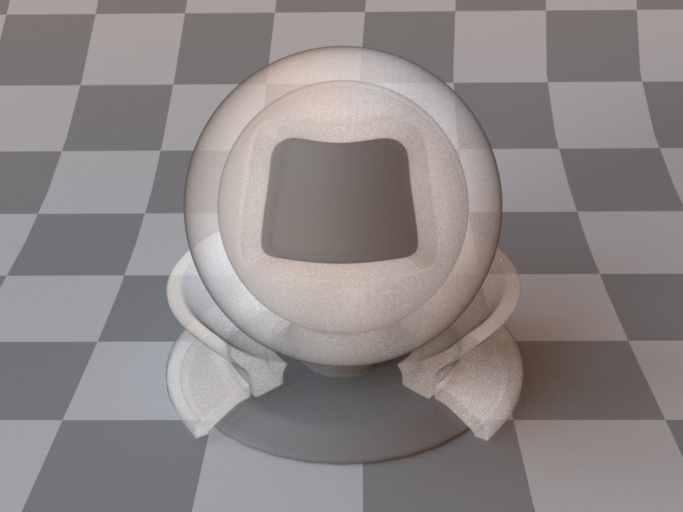
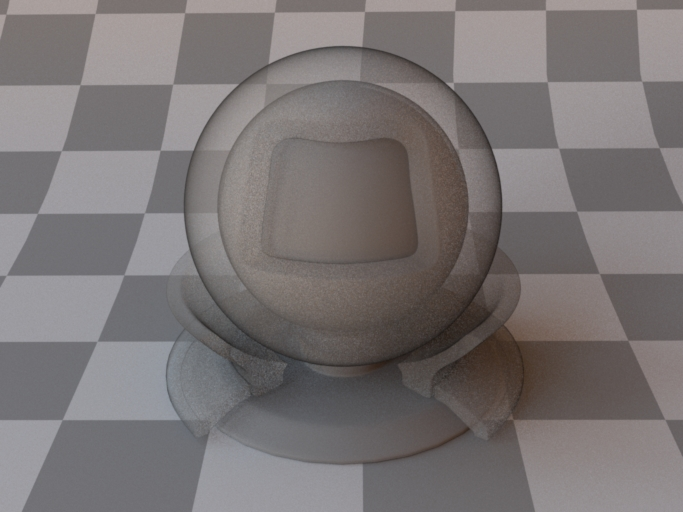
preliminary sun/sky model implementation

Changed region(s): [[0.2152, 0.0625, 0.7687, 0.875]]

diff --git a/src/luminaires/sun.h b/src/luminaires/sun.h
@@ -75,8 +75,8 @@ Point2 configureSunPosition(Float lat, Float lon, int stdMrd,
 		-solarAzimuth);
 }
 
-Point2 configureSunPosition(const Vector& sunDir, const Transform &luminaireToWorld) {
-	return fromSphere(normalize(luminaireToWorld(sunDir)));
+Point2 configureSunPosition(const Vector& sunDir, const Transform &worldToLuminaire) {
+	return fromSphere(normalize(worldToLuminaire(sunDir)));
 }
 
 Point2 configureSunPosition(const Properties &props) {
@@ -90,7 +90,7 @@ Point2 configureSunPosition(const Properties &props) {
 
 		return configureSunPosition(
 			props.getVector("sunDirection"),
-			props.getTransform("toWorld", Transform()));
+			props.getTransform("toWorld", Transform()).inverse());
 	} else {
 		Float lat = props.getFloat("latitude", 35.6894f);
 		Float lon  = props.getFloat("longitude", 139.6917f);
@@ -107,6 +107,126 @@ Point2 configureSunPosition(const Properties &props) {
 		return configureSunPosition(lat, lon, stdMrd, day, time);
 	}
 }
+
+/* All data lifted from MI */
+/* Units are either [] or cm^-1. refer when in doubt MI */
+
+// k_o Spectrum table from pg 127, MI.
+Float k_oWavelengths[64] = {
+	300, 305, 310, 315, 320, 325, 330, 335, 340, 345,
+	350, 355, 445, 450, 455, 460, 465, 470, 475, 480, 
+	485, 490, 495, 500, 505, 510, 515, 520, 525, 530, 
+	535, 540, 545, 550, 555, 560, 565, 570, 575, 580, 
+	585, 590, 595, 600, 605, 610, 620, 630, 640, 650, 
+	660, 670, 680, 690, 700, 710, 720, 730, 740, 750, 
+	760, 770, 780, 790,
+};
+
+Float k_oAmplitudes[65] = {
+	10.0, 4.8, 2.7, 1.35, .8, .380, .160, .075, .04, .019, .007, 
+	.0, .003, .003, .004, .006, .008, .009, .012, .014, .017, 
+	.021, .025, .03, .035, .04, .045, .048, .057, .063, .07, 
+	.075, .08, .085, .095, .103, .110, .12, .122, .12, .118, 
+	.115, .12, .125, .130, .12, .105, .09, .079, .067, .057, 
+	.048, .036, .028, .023, .018, .014, .011, .010, .009, 
+	.007, .004, .0, .0
+};
+
+// k_g Spectrum table from pg 130, MI.
+Float k_gWavelengths[4] = {
+	759, 760, 770, 771
+};
+
+Float k_gAmplitudes[4] = {
+	0, 3.0, 0.210, 0
+};
+
+// k_wa Spectrum table from pg 130, MI.
+Float k_waWavelengths[13] = {
+	689, 690, 700, 710, 720,
+	730, 740, 750, 760, 770,
+	780, 790, 800
+};
+
+Float k_waAmplitudes[13] = {
+	0, 0.160e-1, 0.240e-1, 0.125e-1,
+	0.100e+1, 0.870, 0.610e-1, 0.100e-2,
+	0.100e-4, 0.100e-4, 0.600e-3,
+	0.175e-1, 0.360e-1
+};
+
+Float solWavelengths[38] = {
+	380, 390, 400, 410, 420, 430, 440, 450, 
+	460, 470, 480, 490, 500, 510, 520, 530, 
+	540, 550, 560, 570, 580, 590, 600, 610, 
+	620, 630, 640, 650, 660, 670, 680, 690, 
+	700, 710, 720, 730, 740, 750
+};
+
+Float solAmplitudes[38] = {
+	165.5, 162.3, 211.2, 258.8, 258.2,
+	242.3, 267.6, 296.6, 305.4, 300.6,
+	306.6, 288.3, 287.1, 278.2, 271.0,
+	272.3, 263.6, 255.0, 250.6, 253.1,
+	253.5, 251.3, 246.3, 241.7, 236.8,
+	232.1, 228.2, 223.4, 219.7, 215.3,
+	211.0, 207.3, 202.4, 198.7, 194.3,
+	190.7, 186.3, 182.6
+};
+
+Spectrum computeSunRadiance(Float theta, Float turbidity) {
+    InterpolatedSpectrum k_oCurve(k_oWavelengths, k_oAmplitudes, 64);
+   	InterpolatedSpectrum k_gCurve(k_gWavelengths, k_gAmplitudes, 4);
+    InterpolatedSpectrum k_waCurve(k_waWavelengths, k_waAmplitudes, 13);
+    InterpolatedSpectrum solCurve(solWavelengths, solAmplitudes, 38);
+    Float  data[91], wavelengths[91];  // (800 - 350) / 5  + 1
+
+    Float beta = 0.04608365822050f * turbidity - 0.04586025928522f;
+
+    Float m = 1.0f/(std::cos(theta) + 0.15f*std::pow(93.885f-theta/M_PI*180.0f, (Float) -1.253f));  // Relative Optical Mass
+
+    Float lambda;
+	int i;
+    for(i = 0, lambda = 350; i < 91; i++, lambda+=5) {
+		// Rayleigh Scattering
+		// Results agree with the graph (pg 115, MI) */
+		Float tauR = std::exp(-m * 0.008735f * std::pow(lambda/1000.0f, (Float) -4.08));
+
+		// Aerosal (water + dust) attenuation
+		// beta - amount of aerosols present 
+		// alpha - ratio of small to large particle sizes. (0:4,usually 1.3)
+		// Results agree with the graph (pg 121, MI) 
+		const Float alpha = 1.3f;
+		Float tauA = exp(-m * beta * std::pow(lambda/1000.0f, -alpha));  // lambda should be in um
+
+		// Attenuation due to ozone absorption  
+		// lOzone - amount of ozone in cm(NTP) 
+		// Results agree with the graph (pg 128, MI) 
+		const Float lOzone = .35f;
+		Float tauO = std::exp(-m * k_oCurve.eval(lambda) * lOzone);
+
+		// Attenuation due to mixed gases absorption  
+		// Results agree with the graph (pg 131, MI)
+		Float tauG = std::exp(-1.41f * k_gCurve.eval(lambda) * m / std::pow(1 + 118.93f
+			* k_gCurve.eval(lambda) * m, (Float) 0.45f));
+
+		// Attenuation due to water vapor absorbtion  
+		// w - precipitable water vapor in centimeters (standard = 2) 
+		// Results agree with the graph (pg 132, MI)
+		const Float w = 2.0;
+		Float tauWA = std::exp(-0.2385f * k_waCurve.eval(lambda) * w * m /
+				std::pow(1 + 20.07f * k_waCurve.eval(lambda) * w * m, 0.45f));
+
+		data[i] = 100.0f * solCurve.eval(lambda) * tauR * tauA * tauO * tauG * tauWA;
+		wavelengths[i] = lambda;
+    }
+    InterpolatedSpectrum interpolated(wavelengths, data, 91);
+	Spectrum discretized;
+	discretized.fromContinuousSpectrum(interpolated);
+	discretized *= 300;
+	return discretized;
+}
+
 
 MTS_NAMESPACE_END
 

diff --git a/src/luminaires/sunsky.cpp b/src/luminaires/sunsky.cpp
@@ -18,6 +18,9 @@
 
 #include <mitsuba/render/scene.h>
 #include <mitsuba/core/plugin.h>
+#include <mitsuba/core/bitmap.h>
+#include <mitsuba/core/fstream.h>
+#include "sun.h"
 
 MTS_NAMESPACE_BEGIN
 
@@ -80,38 +83,64 @@ public:
 		: Luminaire(_props) {
 		Properties props(_props);
 		props.setPluginName("sun");
-		m_sun = static_cast<Luminaire *>(
+		ref<Luminaire> sun = static_cast<Luminaire *>(
 			PluginManager::getInstance()->createObject(
 			MTS_CLASS(Luminaire), props));
+		sun->configure();
 		props.setPluginName("sky");
-		m_sky = static_cast<Luminaire *>(
+		ref<Luminaire> sky = static_cast<Luminaire *>(
 			PluginManager::getInstance()->createObject(
 			MTS_CLASS(Luminaire), props));
+		sky->configure();
+	
+		int resolution = props.getInteger("resolution", 512);
+		int thetaBins = resolution, phiBins = resolution*2;
 
-		/* Avoid unused parameter warnings */
-		std::vector<std::string> propNames;
-		props.putPropertyNames(propNames);
-		for (size_t i=0; i<propNames.size(); ++i)
-			if (props.wasQueried(propNames[i]))
-				_props.markQueried(propNames[i]);
+		ref<Bitmap> bitmap = new Bitmap(phiBins, thetaBins, 128);
+		Point2 factor(M_PI / thetaBins, (2*M_PI) / phiBins);
+		float *target = bitmap->getFloatData();
+		for (int i=0; i<thetaBins; ++i) {
+			Float theta = (i+.5f)*factor.x;
+			for (int j=0; j<phiBins; ++j) {
+				Float phi = (j+.5f)*factor.y;
+				Vector d = toSphere(theta, phi);
+				Ray ray(Point(0.0f), d, 0.0f);
+				Spectrum s = sun->Le(ray) + sky->Le(ray);
+				Float r, g, b;
+				s.toLinearRGB(r, g, b);
+				*target++ = r; *target++ = g;
+				*target++ = b; *target++ = 1;
+			}
+		}
+
+		/* Instantiate a nested envmap plugin */
+		Properties envProps("envmap");
+		Properties::Data bitmapData;
+		bitmapData.ptr = (uint8_t *) bitmap.get();
+		bitmapData.size = sizeof(Bitmap);
+		envProps.setData("bitmap", bitmapData);
+		envProps.setTransform("toWorld", m_luminaireToWorld);
+		envProps.setFloat("samplingWeight", m_samplingWeight);
+		m_luminaire = static_cast<Luminaire *>(
+			PluginManager::getInstance()->createObject(
+			MTS_CLASS(Luminaire), envProps));
+		ref<FileStream> fs = new FileStream("test.exr", FileStream::ETruncReadWrite);
+		bitmap->save(Bitmap::EEXR, fs);
 	}
 
 	SunSkyLuminaire(Stream *stream, InstanceManager *manager)
 		: Luminaire(stream, manager) {
-		m_sun = static_cast<Luminaire *>(manager->getInstance(stream));
-		m_sky = static_cast<Luminaire *>(manager->getInstance(stream));
+		m_luminaire = static_cast<Luminaire *>(manager->getInstance(stream));
 	}
 
 	void serialize(Stream *stream, InstanceManager *manager) {
 		Luminaire::serialize(stream, manager);
-		manager->serialize(stream, m_sun.get());
-		manager->serialize(stream, m_sky.get());
+		manager->serialize(stream, m_luminaire.get());
 	}
 
 	void configure() {
 		Luminaire::configure();
-		m_sun->configure();
-		m_sky->configure();
+		m_luminaire->configure();
 	}
 
 	bool isCompound() const {
@@ -120,18 +149,14 @@ public:
 
 	Luminaire *getElement(int i) {
 		if (i == 0)
-			return m_sun;
-		else if (i == 1)
-			return m_sky;
+			return m_luminaire;
 		else
 			return NULL;
 	}
 
 	MTS_DECLARE_CLASS()
 private:
-	Properties m_props;
-	ref<Luminaire> m_sun;
-	ref<Luminaire> m_sky;
+	ref<Luminaire> m_luminaire;
 };
 
 MTS_IMPLEMENT_CLASS_S(SunSkyLuminaire, false, Luminaire)

diff --git a/src/luminaires/sky.cpp b/src/luminaires/sky.cpp
@@ -164,8 +164,8 @@ class SkyLuminaire : public Luminaire {
 public:
 	SkyLuminaire(const Properties &props)
 			: Luminaire(props) {
-		m_intensityScale = props.getFloat("intensityScale", Float(1.0));
-		m_turbidity = props.getFloat("turbidity", Float(3.0));
+		m_intensityScale = props.getFloat("intensityScale", 1.0f);
+		m_turbidity = props.getFloat("turbidity", 3.0f);
 		if (m_turbidity < 1 || m_turbidity > 30)
 			Log(EError, "The turbidity parameter must be in the range [1,30]!");
 
@@ -286,6 +286,11 @@ public:
 			MTS_CLASS(Luminaire), props));
 		luminaire->configure();
 		return luminaire;
+	}
+
+	Spectrum Le(const Ray &ray) const {
+		Point2 coords = fromSphere(ray.d);
+		return getSkySpectralRadiance(coords.x, coords.y) * m_intensityScale;
 	}
 
 	std::string toString() const {

diff --git a/src/luminaires/envmap.cpp b/src/luminaires/envmap.cpp
@@ -128,6 +128,8 @@ public:
 		}
 		m_pdfPixelSize = Vector2(2 * M_PI / m_pdfResolution.x, M_PI / m_pdfResolution.y);
 		m_pdf.build();
+		if (m_pdf.getOriginalSum() == 0)
+			Log(EError, "Error -- environment map does not contain any nonzero pixels!");
 	}
 
 	void preprocess(const Scene *scene) {
